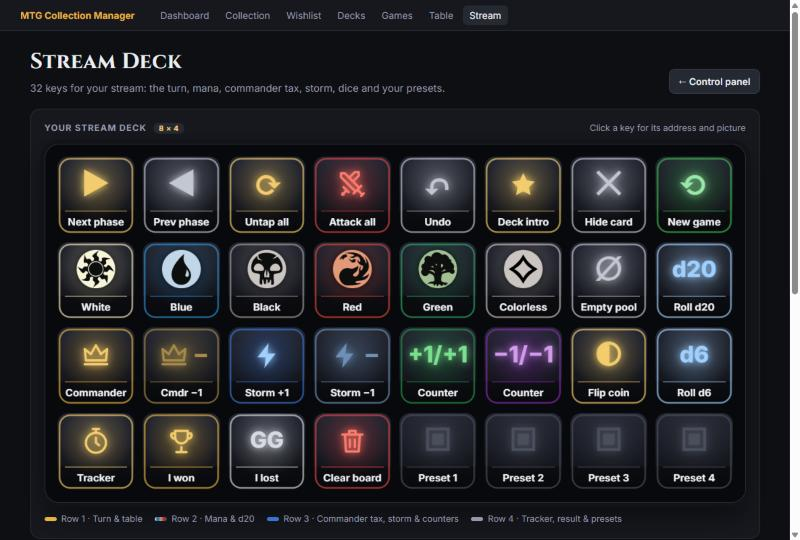
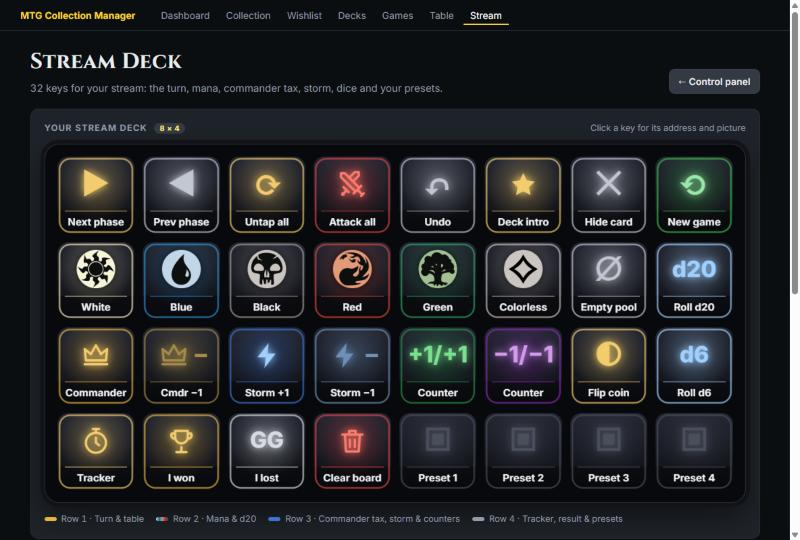
The stream control panel and the Stream Deck page in the Binance look too
- Same colours as the rest of the app: near-black, yellow as the one accent, flat buttons and cards,
  small radii, a menu with a yellow underline
- The stream overlay itself, which is on screen for your viewers, keeps its own look
- README: new screenshots of the control panel and the Stream Deck page

diff --git a/app/stream/static/control.html b/app/stream/static/control.html
@@ -17,8 +17,8 @@
     --line-2: #383d49;
     --text: #eceef3;
     --muted: #9599a8;
-    --accent: #e7b343;
-    --accent-2: #f3cc6e;
+    --accent: #fcd535;
+    --accent-2: #fde677;
     --danger: #e0434b;
     --ok: #3fb950;
     --plus: #23944a;
@@ -31,14 +31,14 @@
     margin: 0;
     min-height: 100vh;
     background:
-      radial-gradient(1200px 500px at 10% -10%, rgba(231, 179, 67, .07), transparent 60%),
+      radial-gradient(1200px 500px at 10% -10%, rgba(252, 213, 53, .07), transparent 60%),
       radial-gradient(900px 500px at 110% 0%, rgba(90, 120, 220, .07), transparent 60%),
       var(--bg);
     color: var(--text);
     font: 14px/1.45 "Inter", "Segoe UI", system-ui, sans-serif;
     -webkit-font-smoothing: antialiased;
   }
-  ::selection { background: rgba(231, 179, 67, .35); }
+  ::selection { background: rgba(252, 213, 53, .35); }
 
   /* ---- buttons */
   button {
@@ -65,7 +65,7 @@
     background: linear-gradient(180deg, var(--accent-2), var(--accent));
     border-color: #c9952a;
   }
-  button.primary:hover { background: linear-gradient(180deg, #f8d988, #eebd52); border-color: #d9a43a; }
+  button.primary:hover { background: linear-gradient(180deg, #fde677, #eebd52); border-color: #d9a43a; }
   button.danger { color: #ffb4b7; border-color: #5b2328; background: #2a1719; }
   button.danger:hover { color: #fff; background: var(--danger); border-color: var(--danger); }
   button.ghost { background: transparent; border-color: transparent; color: var(--muted); }
@@ -239,7 +239,7 @@
     transition: border-color .15s, background .15s;
   }
   .board li:hover { border-color: var(--line-2); background: #20232b; }
-  .board li.is-tapped { background: linear-gradient(90deg, rgba(231, 179, 67, .08), transparent 40%), var(--panel-2); }
+  .board li.is-tapped { background: linear-gradient(90deg, rgba(252, 213, 53, .08), transparent 40%), var(--panel-2); }
   /* A token cut out of a picture with two tokens on it. */
   .crop { position: relative; display: block; overflow: hidden; aspect-ratio: 488 / 340; border-radius: 4px; background: var(--panel-3); }
   .crop > img, .board .crop > img, .result .crop > img { position: absolute; left: 0; top: 0; width: 100%; height: 200%; aspect-ratio: auto; border-radius: 0; box-shadow: none; transition: none; }
@@ -317,9 +317,9 @@
     border-radius: 8px;
   }
   .board .split-box input { width: 56px; }
-  .board .manual-pt { border-color: rgba(231, 179, 67, .45); }
+  .board .manual-pt { border-color: rgba(252, 213, 53, .45); }
   .board .ward-cost { border-color: rgba(69, 184, 198, .5); }
-  .board .ward-cost.empty-cost { border-color: var(--accent); box-shadow: 0 0 0 3px rgba(231, 179, 67, .15); }
+  .board .ward-cost.empty-cost { border-color: var(--accent); box-shadow: 0 0 0 3px rgba(252, 213, 53, .15); }
   .board .ward-cost .label { color: #7fd3de; font-size: 12px; font-weight: 700; padding: 0 4px; }
   .board .ward-cost input {
     width: 130px;
@@ -332,7 +332,7 @@
     border-radius: 8px;
   }
   .board .manual-pt .label { color: var(--accent); font-size: 12px; font-weight: 700; padding: 0 4px; }
-  .board .manual-pt input { width: 54px; border-color: rgba(231, 179, 67, .6); }
+  .board .manual-pt input { width: 54px; border-color: rgba(252, 213, 53, .6); }
   .board .chip {
     width: 46px;
     height: 46px;
@@ -412,7 +412,7 @@
     outline: none;
     transition: border-color .15s, box-shadow .15s;
   }
-  #search:focus { border-color: var(--accent); box-shadow: 0 0 0 4px rgba(231, 179, 67, .15); }
+  #search:focus { border-color: var(--accent); box-shadow: 0 0 0 4px rgba(252, 213, 53, .15); }
   #suggest {
     position: absolute;
     left: 0;
@@ -664,8 +664,8 @@
   .show-bar .note { color: var(--muted); font-size: 13px; }
   .result-row { margin-top: 4px; }
   svg.icon { width: 1.15em; height: 1.15em; vertical-align: -0.2em; }
-  .result-btn.win { color: #1a1406; border-color: transparent; background: linear-gradient(180deg, #f8d988, #e7b343); }
-  .show-bar .tally-btn b { margin-left: 4px; color: var(--accent-2, #f3cc6e); font-variant-numeric: tabular-nums; }
+  .result-btn.win { color: #1a1406; border-color: transparent; background: linear-gradient(180deg, #fde677, #fcd535); }
+  .show-bar .tally-btn b { margin-left: 4px; color: var(--accent-2, #fde677); font-variant-numeric: tabular-nums; }
 
   /* ---- stacks: actions, counters pill, "more" menu */
   .board .actions { display: flex; align-items: center; flex-wrap: wrap; gap: 6px; }
@@ -768,7 +768,7 @@
   /* selected stack (for keyboard shortcuts) */
   .board li.selected, .ctile.selected {
     border-color: var(--accent);
-    box-shadow: 0 0 0 2px rgba(231, 179, 67, .35);
+    box-shadow: 0 0 0 2px rgba(252, 213, 53, .35);
   }
 
   /* Treasure colour picker (in a "more"-style menu) */
@@ -873,7 +873,7 @@
     border: 1px solid var(--line-2);
     border-radius: 10px;
   }
-  .deck-form input:focus { outline: none; border-color: var(--accent); box-shadow: 0 0 0 4px rgba(231, 179, 67, .15); }
+  .deck-form input:focus { outline: none; border-color: var(--accent); box-shadow: 0 0 0 4px rgba(252, 213, 53, .15); }
   .deck-info { color: var(--muted); font-size: 13px; margin: 4px 2px 10px; }
   .deck-info.busy::before {
     content: "";
@@ -918,7 +918,7 @@
     margin: 2px -20px -12px;
     padding: 7px 20px;
     border-top: 1px solid var(--line);
-    background: linear-gradient(90deg, rgba(231, 179, 67, .07), transparent 60%);
+    background: linear-gradient(90deg, rgba(252, 213, 53, .07), transparent 60%);
   }
   .turn-strip[hidden] { display: none; }
   .turn-strip .spacer { flex: 1; }
@@ -950,6 +950,25 @@
   /* empty state */
   .board li.empty { flex-direction: column; gap: 6px; padding: 26px 12px; }
   .empty-icon { font-size: 26px; opacity: .8; }
+
+  /* ===== The Binance look, as in the rest of the app ===== */
+  :root { --bg: #0b0e11; --panel: #1e2329; --panel-2: #2b3139; --panel-3: #333a44; --line: #2b3139; --line-2: #3a424d;
+    --text: #eaecef; --muted: #929aa5; --accent: #fcd535; --accent-2: #fde677; --danger: #f6465d; --ok: #0ecb81; --radius: 12px; --shadow: none; }
+  body { background: var(--bg); font-variant-numeric: tabular-nums; }
+  button { border-radius: 6px; background: var(--panel-2); border-color: var(--panel-2); }
+  button:hover { background: var(--panel-3); border-color: var(--panel-3); }
+  button:disabled:hover { background: var(--panel-2); border-color: var(--panel-2); }
+  button.primary, .result-btn.win, .board button.view.on, .board button.tap.on, .board button.use:hover:not(:disabled) {
+    color: #181a20; background: var(--accent); border-color: var(--accent); }
+  button.primary:hover { background: #f0b90b; border-color: #f0b90b; }
+  button.danger { background: #2a1719; border-color: #5b2328; }
+  button.danger:hover { background: var(--danger); border-color: var(--danger); color: #fff; }
+  .panel { background: var(--panel); border-radius: 12px; }
+  .board li.is-tapped { background: var(--panel-2); box-shadow: inset 3px 0 0 var(--accent); }
+  .turn-strip { background: var(--panel); }
+  input, select, textarea { border-radius: 8px; }
+  .app-nav { background: var(--bg); }
+  .app-nav a.active { background: transparent; color: #fff; box-shadow: inset 0 -2px 0 var(--accent); border-radius: 0; }
 </style>
 </head>
 <body>

diff --git a/app/stream/static/streamdeck.html b/app/stream/static/streamdeck.html
@@ -17,8 +17,8 @@
     --line-2: #383d49;
     --text: #eceef3;
     --muted: #9599a8;
-    --accent: #e7b343;
-    --accent-2: #f3cc6e;
+    --accent: #fcd535;
+    --accent-2: #fde677;
     --radius: 14px;
   }
   * { box-sizing: border-box; }
@@ -44,7 +44,7 @@
     padding: 7px 13px; border-radius: 9px; border: 1px solid var(--line-2); background: var(--panel-3);
   }
   button:hover { border-color: var(--accent); }
-  button.primary { color: #1a1406; border-color: transparent; background: linear-gradient(180deg, #f8d988, #e7b343); }
+  button.primary { color: #1a1406; border-color: transparent; background: linear-gradient(180deg, #fde677, #fcd535); }
   .head { display: flex; align-items: center; gap: 10px; flex-wrap: wrap; }
   .head .spacer { flex: 1; }
 
@@ -60,7 +60,7 @@
   }
   .key canvas { width: 100%; height: 100%; display: block; border-radius: 16px; }
   .key:hover { transform: translateY(-2px); }
-  .key.on { box-shadow: 0 0 0 3px var(--accent), 0 0 22px rgba(231, 179, 67, .45); }
+  .key.on { box-shadow: 0 0 0 3px var(--accent), 0 0 22px rgba(252, 213, 53, .45); }
   @media (max-width: 760px) { .deck { grid-template-columns: repeat(4, minmax(0, 1fr)); } }
 
   .detail { display: grid; grid-template-columns: 96px 1fr; gap: 16px; align-items: center; }
@@ -102,24 +102,24 @@
   .ways h2 { margin: 0; font-size: 17px; letter-spacing: 0; text-transform: none; color: var(--text); }
   .lead { margin: 0; color: #c3c7d1; }
   .profile-panel {
-    border-color: rgba(231, 179, 67, .5);
-    background: radial-gradient(120% 90% at 100% 0%, rgba(231, 179, 67, .10), transparent 60%), var(--panel);
+    border-color: rgba(252, 213, 53, .5);
+    background: radial-gradient(120% 90% at 100% 0%, rgba(252, 213, 53, .10), transparent 60%), var(--panel);
   }
   .tag {
     position: absolute; top: 16px; right: 18px; padding: 2px 9px; border-radius: 999px; font-size: 11px; font-weight: 700;
-    letter-spacing: .06em; text-transform: uppercase; color: #1a1406; background: linear-gradient(180deg, #f8d988, #e7b343);
+    letter-spacing: .06em; text-transform: uppercase; color: #1a1406; background: linear-gradient(180deg, #fde677, #fcd535);
   }
   .field { display: flex; align-items: center; gap: 10px; color: var(--muted); font-size: 14px; }
-  button.big { padding: 11px 18px; font-size: 15px; box-shadow: 0 8px 22px rgba(231, 179, 67, .22); }
+  button.big { padding: 11px 18px; font-size: 15px; box-shadow: 0 8px 22px rgba(252, 213, 53, .22); }
   ol.steps { list-style: none; counter-reset: step; padding: 0; margin: 0; display: grid; gap: 9px; }
   ol.steps li { counter-increment: step; position: relative; padding-left: 34px; }
   ol.steps li::before {
     content: counter(step); position: absolute; left: 0; top: 0; width: 23px; height: 23px; border-radius: 50%;
     display: grid; place-items: center; font-size: 12px; font-weight: 800; color: var(--accent-2);
-    background: rgba(231, 179, 67, .12); border: 1px solid rgba(231, 179, 67, .45);
+    background: rgba(252, 213, 53, .12); border: 1px solid rgba(252, 213, 53, .45);
   }
   .footnote { text-align: center; margin: 0; }
-  .detail { border-color: rgba(231, 179, 67, .45); }
+  .detail { border-color: rgba(252, 213, 53, .45); }
   #toast {
     position: fixed; left: 50%; bottom: 24px; transform: translate(-50%, 20px); opacity: 0; pointer-events: none;
     padding: 10px 16px; border-radius: 10px; background: #23262e; border: 1px solid var(--line-2);
@@ -127,6 +127,21 @@
   }
   #toast.show { opacity: 1; transform: translate(-50%, 0); }
   #toast.error { border-color: #e0434b; }
+
+  /* ===== The Binance look, as in the rest of the app ===== */
+  :root { --bg: #0b0e11; --panel: #1e2329; --panel-2: #2b3139; --panel-3: #333a44; --line: #2b3139; --line-2: #3a424d;
+    --text: #eaecef; --muted: #929aa5; --accent: #fcd535; --accent-2: #fde677; --radius: 12px; }
+  body { background: var(--bg); font-variant-numeric: tabular-nums; }
+  a { color: var(--accent); }
+  .app-nav { background: var(--bg); }
+  .app-nav a.active { background: transparent; color: #fff; box-shadow: inset 0 -2px 0 var(--accent); border-radius: 0; }
+  button { border-radius: 6px; background: var(--panel-2); border-color: var(--panel-2); }
+  button:hover { background: var(--panel-3); border-color: var(--panel-3); }
+  button.primary { color: #181a20; background: var(--accent); border-color: var(--accent); }
+  button.primary:hover { background: #f0b90b; border-color: #f0b90b; }
+  button.big { box-shadow: none; }
+  .profile-panel { background: var(--panel); border-color: rgba(252, 213, 53, .5); }
+  .tag { color: #181a20; background: var(--accent); }
 </style>
 </head>
 <body>
